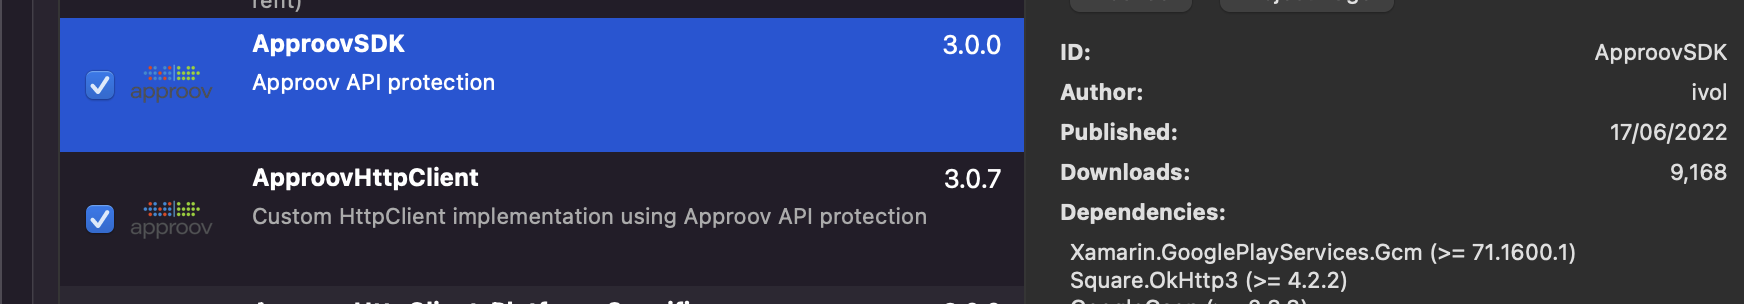
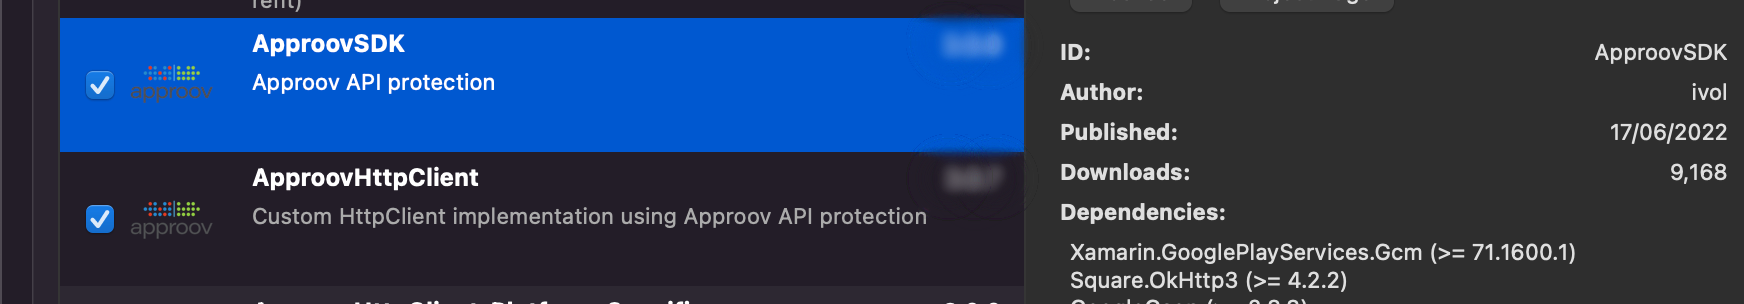
Blur version of packages in images

Changed region(s): [[0.031, 0.0296, 0.5883, 0.6217], [0.031, 0.6809, 0.0929, 0.7697]]

diff --git a/SHAPES-EXAMPLE.md b/SHAPES-EXAMPLE.md
@@ -8,6 +8,7 @@ This quickstart is written specifically for native iOS apps that are written in 
 * [Visual Studio](https://visualstudio.microsoft.com/vs/mac/) with Xamarin extensions (Mac version 17.0.6 is used in this guide)
 * The contents of the folder containing this README
 * An Apple mobile device with iOS 10 or higher or an Android 5.0+ device. Alternatively, iOS simulator or Android emulator would suffice
+* Nuget packages supporting the native Approov SDK: `ApproovSDK` version `3.0.0`, `ApproovHttpClient` version `3.0.7` and `Approovrefit` version `6.0.94`.
 
 
 ## RUNNING THE SHAPES APP WITHOUT APPROOV
@@ -49,7 +50,7 @@ Since the `ApproovHttpClient` uses platform specific code you will need to add t
 
 ## ADD THE APPROOV SDK
 
-The Approov SDK is also available as a NuGet package in the default `nuget.org` repository.
+The Approov SDK is also available as a NuGet package in the default `nuget.org` repository, and is convinently named `ApproovSDK`.
 
 Your project structure should now look like this:
 
